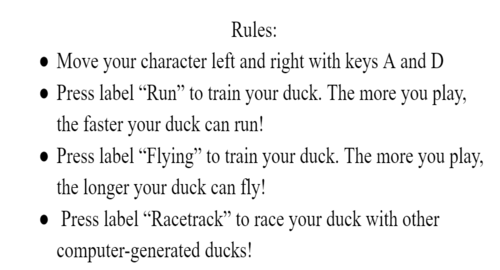
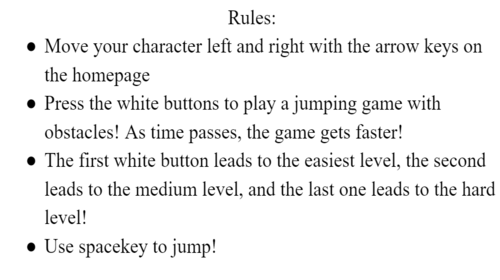
test

Changed region(s): [[0.03, 0.0296, 0.99, 0.6222], [0.03, 0.6519, 0.99, 0.9778]]

diff --git a/Folder1/background.py b/Folder1/background.py
@@ -82,7 +82,7 @@ class saw(object):
         return False
 
 class spike(saw):
-    img2 = pygame.image.load(os.path.join('gem.jpg'))
+    img2 = pygame.image.load(os.path.join('gem2.png'))
 
     def draw(self, win):
         self.hitbox = (self.x + 10, self.y + 5, self.width - 20, self.height - 5)  # Defines the accurate hitbox for our character
@@ -90,7 +90,7 @@ class spike(saw):
         win.blit(pygame.transform.scale(self.img2, (64, 64)), (self.x, self.y))  # scales our image down to 64x64 before drawing
 
 class bump(saw):
-    img3 = pygame.image.load(os.path.join('flower.jpg'))
+    img3 = pygame.image.load(os.path.join('flower2.jpg'))
 
     def draw(self, win):
         self.hitbox = (self.x + 10, self.y + 5, self.width - 20, self.height - 5)  # Defines the accurate hitbox for our character
@@ -213,16 +213,13 @@ class Background:
                     pygame.quit()
                     quit()
                 if event.type == USEREVENT+1:
-                    print("Updating speed")
                     speed += 1
                 if event.type == USEREVENT + 2:
-                    print("Time for an obstacle")
                     pygame.time.set_timer(USEREVENT + 2,
                     random.randrange(5000, 7000))
 
                     r = 0
                     if r == 0:
-                        print("log")
                         log = saw(self.window_width, 200, 64, 64)
                         obstacles.append(log)
 
@@ -235,29 +232,6 @@ class Background:
             self.redrawWindow(background_image, runner, obstacles)
             if runner.falling:
                 self.fallbg()
-        menu = True
-
-        while menu and not runner.falling:
-            pygame.time.delay(100)
-            self.screen.blit(background_image, [0, 0])
-            back = pygame.draw.rect(self.screen, (255, 255, 255), (20, 20, 100, 40))
-
-            for event in pygame.event.get():
-                if event.type == pygame.MOUSEBUTTONDOWN:
-                    mouse_x = pygame.mouse.get_pos()[0]
-                    mouse_y = pygame.mouse.get_pos()[1]
-                    if 20 < mouse_x < 120 and 20 < mouse_y < 60:
-                        self.homepagebg()
-
-                if event.type == pygame.QUIT:
-                    menu = False
-
-            pygame.display.update()
-            pygame.display.flip()
-            self.clock.tick(self.clock_rate)
-
-        pygame.quit()
-        exit()
 
         while not dead:
             for event in pygame.event.get():
@@ -285,7 +259,7 @@ class Background:
 
         run = True
         obstacles = []
-        speed = 30
+        speed = 40
 
         while run and not runner.falling:
             clock.tick(speed)
@@ -310,20 +284,16 @@ class Background:
                     pygame.quit()
                     quit()
                 if event.type == USEREVENT + 1:
-                    print("Updating speed")
-                    speed += 1
+                    speed += 2
                 if event.type == USEREVENT + 2:
-                    print("Time for an obstacle")
                     pygame.time.set_timer(USEREVENT + 2,
                     random.randrange(3000, 5000))
 
                     r = random.randrange(0, 2)
                     if r == 0:
-                        print("log")
                         log = saw(self.window_width, 220, 64, 64)
                         obstacles.append(log)
                     else:
-                        print("gem")
                         gem = spike(self.window_width, 220, 64, 64)
                         obstacles.append(gem)
             keys = pygame.key.get_pressed()
@@ -335,29 +305,6 @@ class Background:
             self.redrawWindow(background_image, runner, obstacles)
             if runner.falling:
                 self.fallbg()
-        menu = True
-
-        while menu and not runner.falling:
-            pygame.time.delay(100)
-            self.screen.blit(background_image, [0, 0])
-            back = pygame.draw.rect(self.screen, (255, 255, 255), (20, 20, 100, 40))
-
-            for event in pygame.event.get():
-                if event.type == pygame.MOUSEBUTTONDOWN:
-                    mouse_x = pygame.mouse.get_pos()[0]
-                    mouse_y = pygame.mouse.get_pos()[1]
-                    if 20 < mouse_x < 120 and 20 < mouse_y < 60:
-                        self.homepagebg()
-
-                if event.type == pygame.QUIT:
-                    menu = False
-
-            pygame.display.update()
-            pygame.display.flip()
-            self.clock.tick(self.clock_rate)
-
-        pygame.quit()
-        exit()
 
         while not dead:
             for event in pygame.event.get():
@@ -385,7 +332,7 @@ class Background:
 
         run = True
         obstacles = []
-        speed = 30
+        speed = 50
 
         while run and not runner.falling:
             clock.tick(speed)
@@ -410,26 +357,22 @@ class Background:
                     pygame.quit()
                     quit()
                 if event.type == USEREVENT + 1:
-                    print("Updating speed")
-                    speed += 1
+                    speed += 3
                 if event.type == USEREVENT + 2:
-                    print("Time for an obstacle")
                     pygame.time.set_timer(USEREVENT + 2,
                                           random.randrange(2000, 4000))
 
                     r = random.randrange(0, 2)
                     if r == 0:
-                        print("log")
                         log = saw(self.window_width, 200, 64, 64)
                         obstacles.append(log)
-                    elif r == 0:
-                        print("flower")
+                    elif r == 1:
                         flower = bump(self.window_width, 200, 64, 64)
                         obstacles.append(flower)
                     else:
-                        print("gem")
                         gem = spike(self.window_width, 200, 64, 64)
                         obstacles.append(gem)
+
             keys = pygame.key.get_pressed()
 
             if keys[pygame.K_SPACE] or keys[pygame.K_UP]:  # If user hits space or up arrow key
@@ -439,29 +382,6 @@ class Background:
             self.redrawWindow(background_image, runner, obstacles)
             if runner.falling:
                 self.fallbg()
-        menu = True
-
-        while menu and not runner.falling:
-            pygame.time.delay(100)
-            self.screen.blit(background_image, [0, 0])
-            back = pygame.draw.rect(self.screen, (255, 255, 255), (20, 20, 100, 40))
-
-            for event in pygame.event.get():
-                if event.type == pygame.MOUSEBUTTONDOWN:
-                    mouse_x = pygame.mouse.get_pos()[0]
-                    mouse_y = pygame.mouse.get_pos()[1]
-                    if 20 < mouse_x < 120 and 20 < mouse_y < 60:
-                        self.homepagebg()
-
-                if event.type == pygame.QUIT:
-                    menu = False
-
-            pygame.display.update()
-            pygame.display.flip()
-            self.clock.tick(self.clock_rate)
-
-        pygame.quit()
-        exit()
 
         while not dead:
             for event in pygame.event.get():
@@ -514,18 +434,18 @@ class Background:
         pygame.display.set_caption("Rules")
         dead = False
         self.clock = pygame.time.Clock()
-        background_image = pygame.image.load("newrules.png").convert()
+        background_image = pygame.image.load("rules2.png").convert()
 
         menu = True
 
         while menu:
             self.screen.blit(background_image, [0, 0])
-            back = pygame.draw.rect(self.screen, (0, 0, 0), (20, 20, 100, 30))
+            back = pygame.draw.rect(self.screen, (0, 0, 0), (20, 10, 100, 30))
             for event in pygame.event.get():
                 if event.type == pygame.MOUSEBUTTONDOWN:
                     mouse_x = pygame.mouse.get_pos()[0]
                     mouse_y = pygame.mouse.get_pos()[1]
-                    if mouse_x > 20 and mouse_x < 120 and mouse_y > 20 and mouse_y < 50:
+                    if mouse_x > 20 and mouse_x < 120 and mouse_y > 10 and mouse_y < 40:
                         self.homepagebg()
 
                 if event.type == pygame.QUIT:
